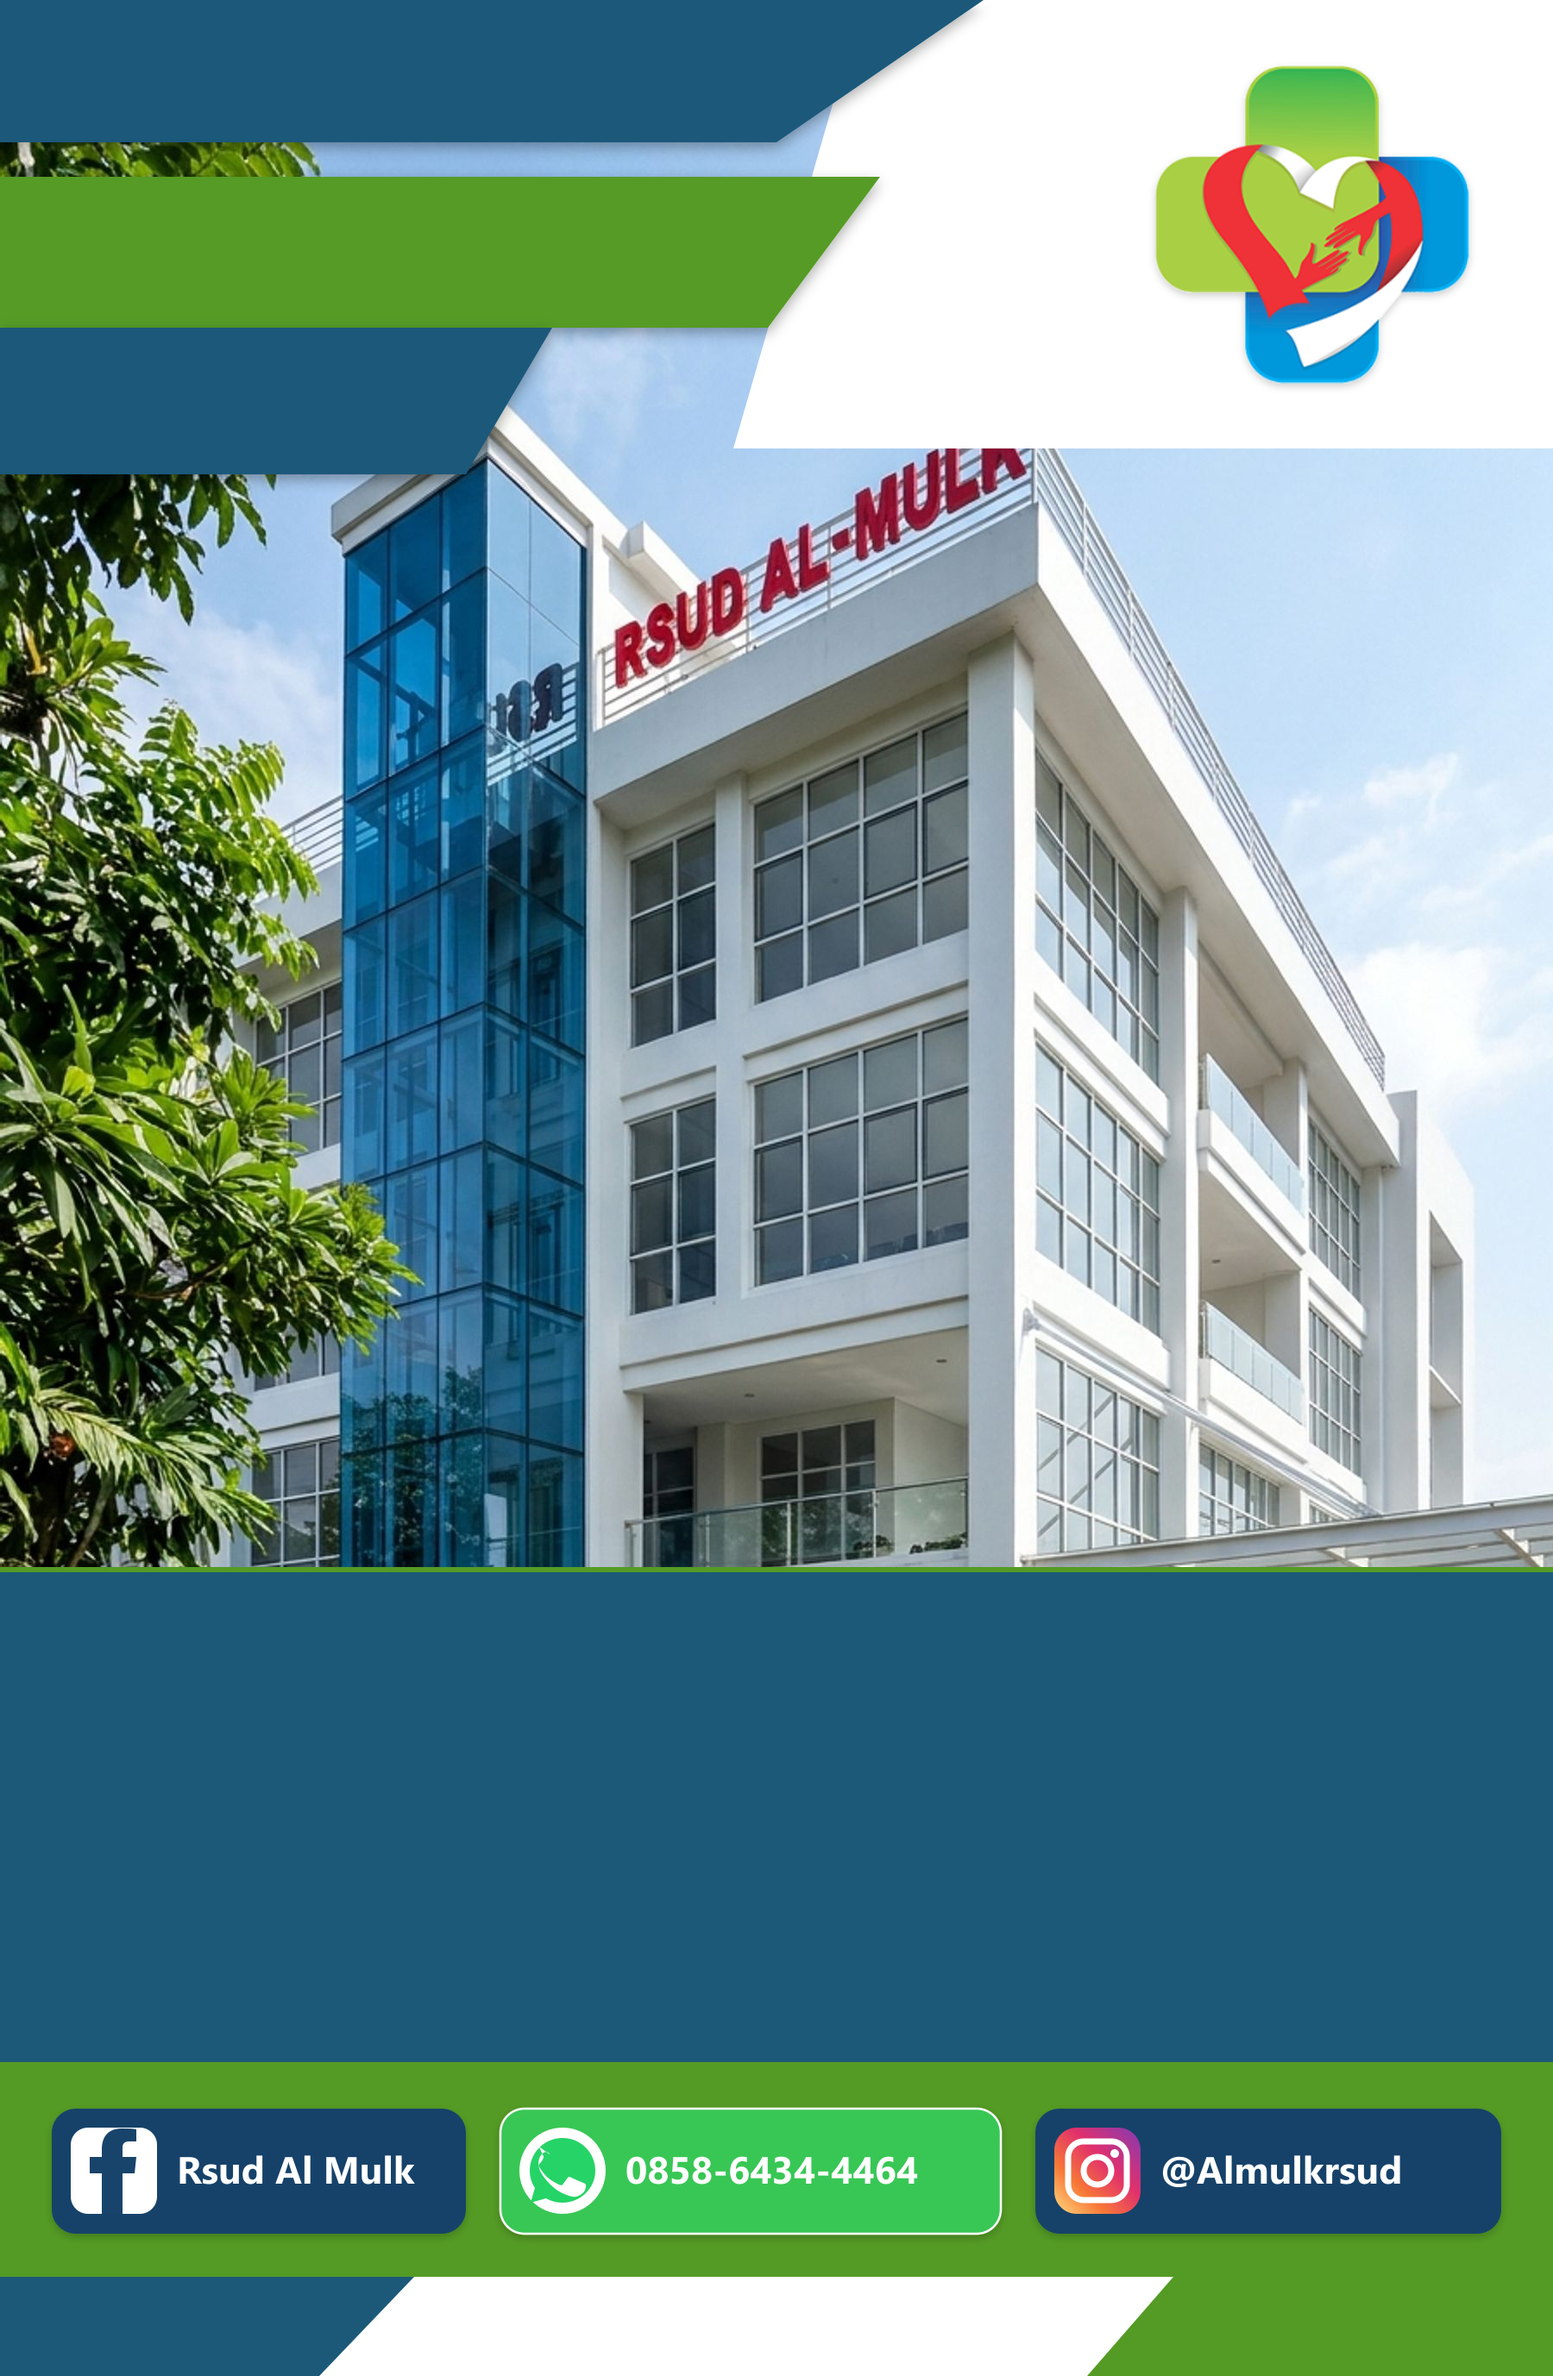
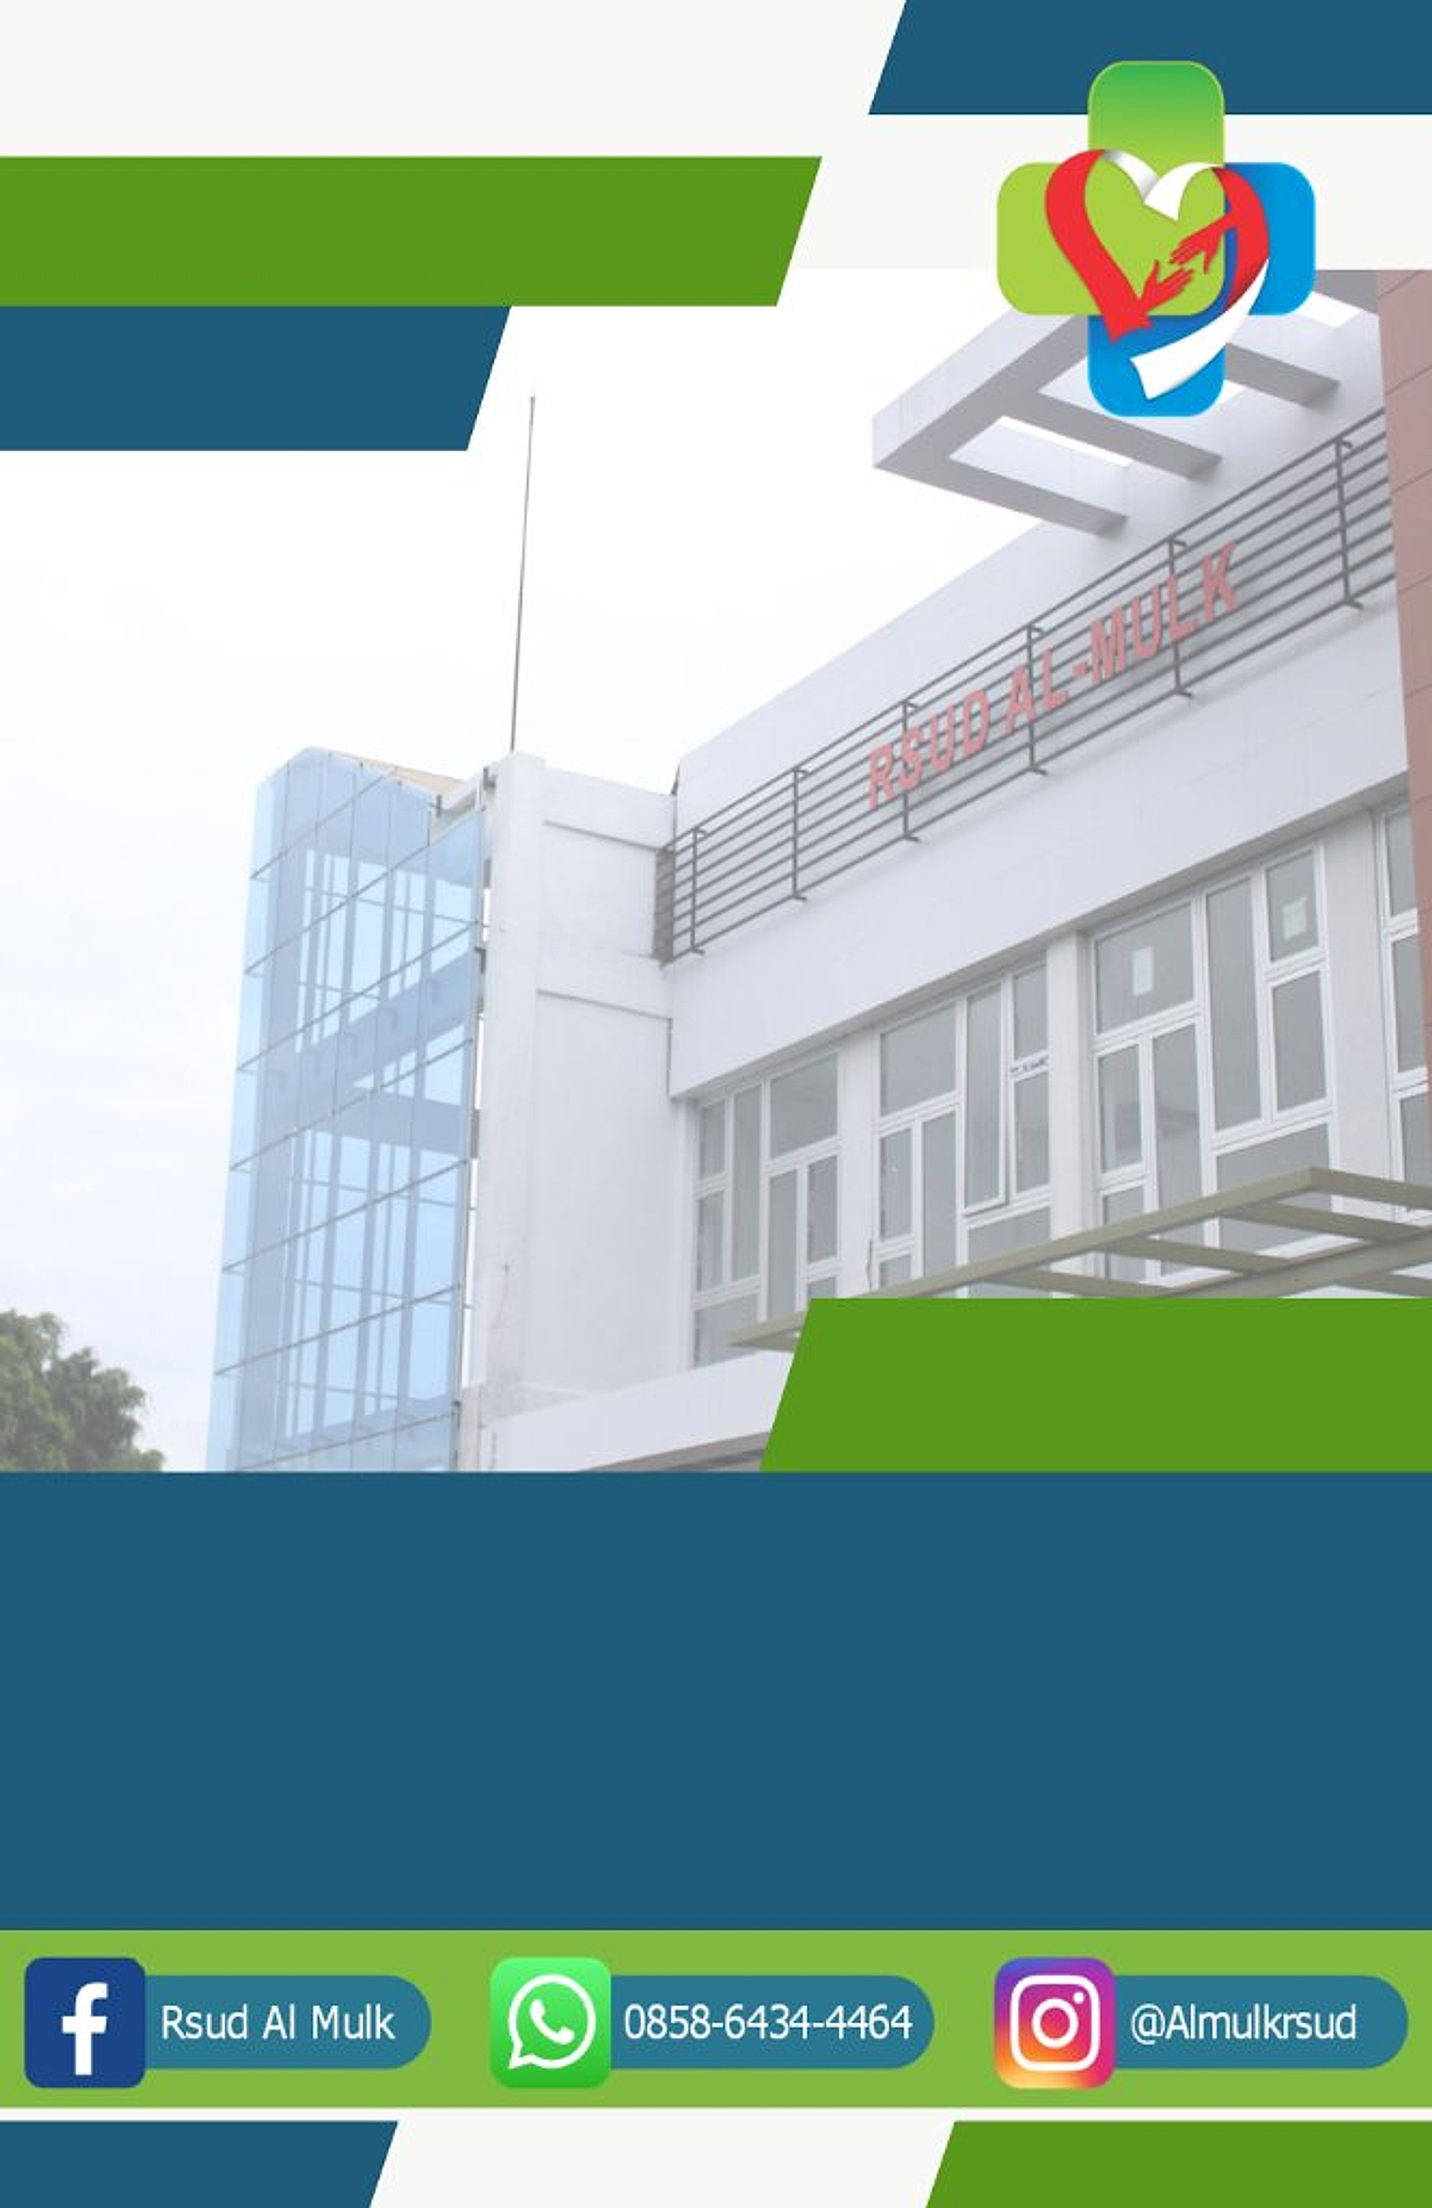
feat(report): apply user-provided official template cover image and align dynamic title overlay

diff --git a/components/sikesling/annual-report-f4-view.tsx b/components/sikesling/annual-report-f4-view.tsx
@@ -622,7 +622,7 @@ export function AnnualReportF4View() {
 
               {/* Teks Format Resmi Dinamis pada Garis Biru (Proporsional & Presisi Sesuai Format Resmi) */}
               <div
-                className="absolute left-0 right-0 top-[66.1%] bottom-[12.9%] flex flex-col items-center justify-center px-4 sm:px-8 text-center select-text"
+                className="absolute left-0 right-0 top-[66.7%] bottom-[13.3%] flex flex-col items-center justify-center px-4 sm:px-8 text-center select-text"
                 style={{ pointerEvents: 'auto' }}
               >
                 <div
